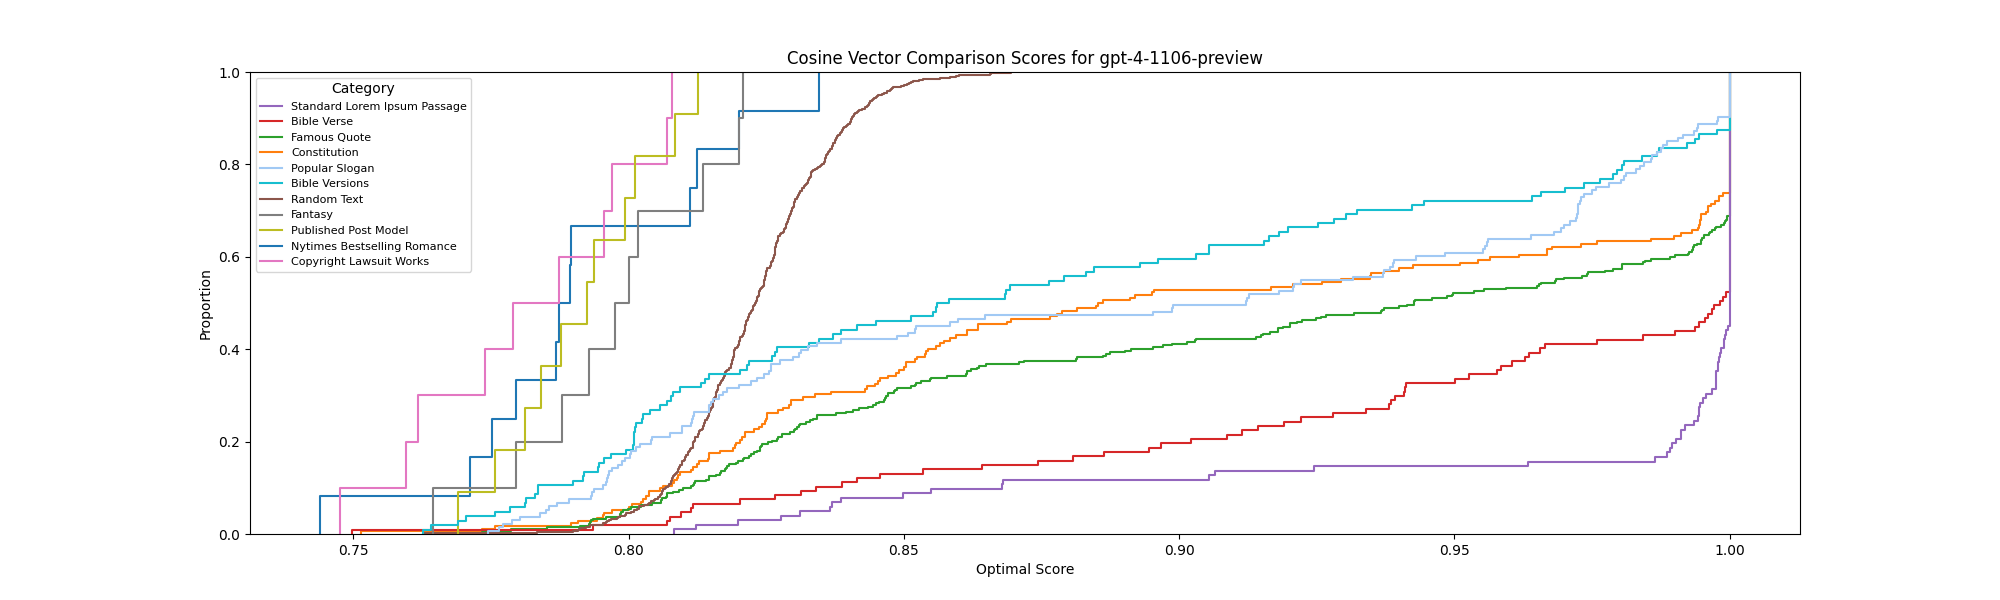
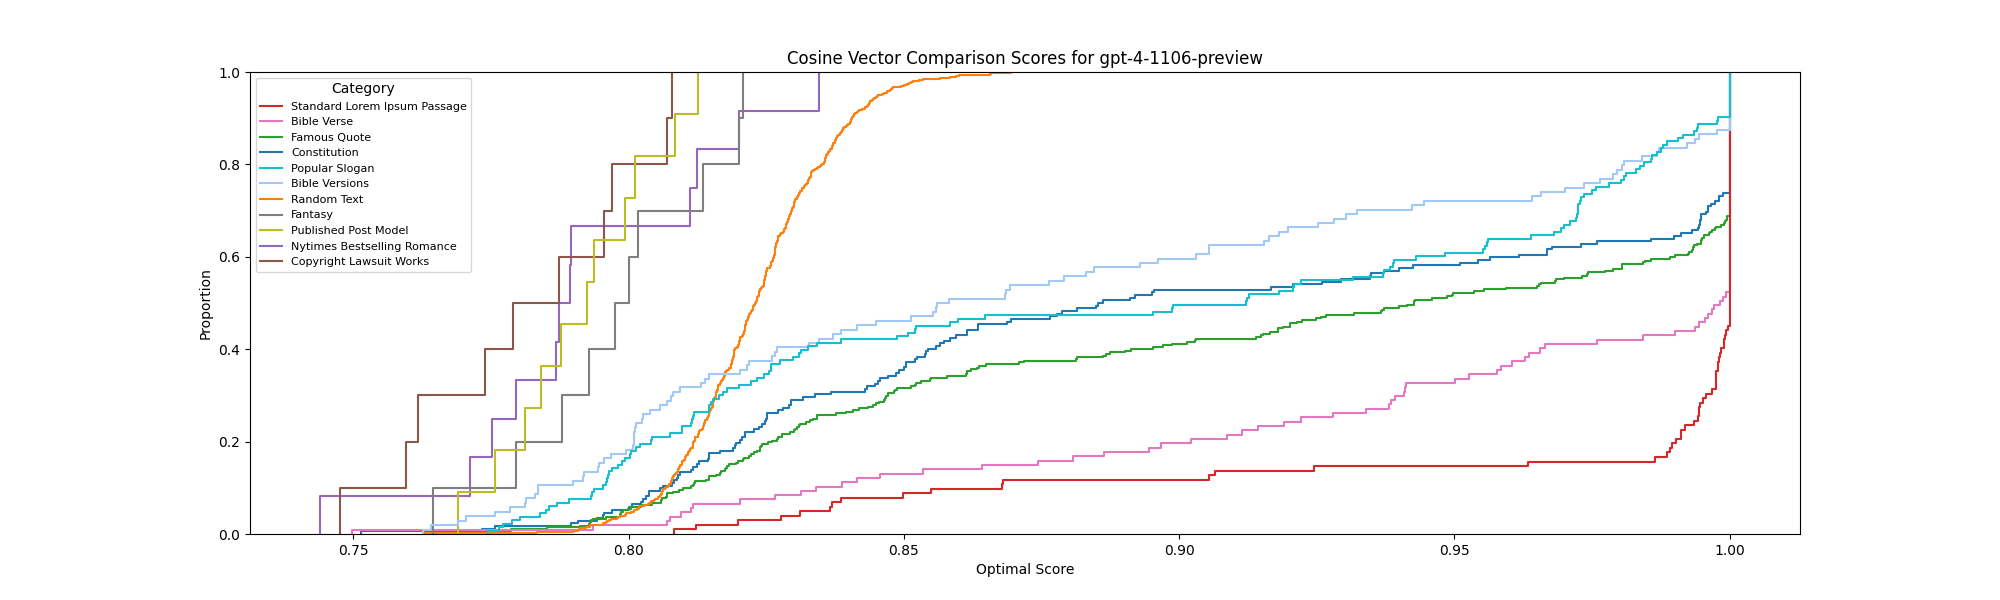
Change graphs to 150 dpi

diff --git a/code/cosine-sentence-length-plot.py b/code/cosine-sentence-length-plot.py
@@ -1,62 +1,91 @@
 import pandas as pd
 import numpy as np
 import matplotlib.pyplot as plt
+import glob
+#gpt 4 preview has to go first so one of its start tokens is chosen, since its the smallest dataframe of valid results
 
-# choose a file
 # choose a row
-
-filename = "/Users/skyler/Desktop/QuoteLLM/results2.0/CSVs/quotes-results.csv"
-df = pd.read_csv(filename)
-file = filename.split("/")[-1]
-genre = file.split("-results.csv")[0]  # "quotes"
-
-title = genre.split("-")
-spaced_title = " ".join(title)
-caps_title = spaced_title.title() # "Quotes"
-#suing-works
-    # row number: 8
-# change row number to graph different quote
-row_num = 199
-tensor_scores = df.iloc[row_num]["cosine_scores"]
-optimal_score = df.iloc[row_num]["optimal_cosine"]
-
-# get optimal score as a float
-score = optimal_score.split("tensor([[")
-score_split = score[1].split("]])")
-score_split = score_split[:len(score_split)-1]
-str_score = score_split[0]
-opt_score = float(str_score)
-print("Opt", opt_score)
-# get list of scores as a float list
-str_scores = tensor_scores.split(" ")
-scores = []
-for score in str_scores:
-    score = score.split("tensor([[")
-    score_split = score[1].split("]])")
-    score_split = score_split[:len(score_split)-1]
-    str_score = score_split[0]
-    score = float(str_score)
-    print(score)
-    scores.append(score)
-
-print(scores)
-print(len(scores))
-print(opt_score)
-x = np.arange(1, len(scores)+1)
-print(x)
-
-
-max_val = max(scores)
-max_index = scores.index(max_val)+1
-
-y = scores
-plt.xlabel("Sentence Length")
+row_num = 5
+# don't go by row num go by start token
+#choose csv
+start_token = 0
+end_token = 0
+model_list = ["gpt-4-1106-preview", "gpt-3.5-turbo", "gpt-4"]
+plt.xlabel("Token Count")
 plt.ylabel("Cosine Score")
+
+for model in model_list:
+    filename = glob.glob(f'/Users/skyler/Desktop/QuoteLLM/all-models-results/CSVs/{model}/famous-quote*')
+    print(filename[0])
+    df = pd.read_csv(filename[0])
+    file = filename[0].split("/")[-1]
+    genre = file.split("-gpt")[0]  # "quotes"
+
+    title = genre.split("-")
+    spaced_title = " ".join(title)
+    caps_title = spaced_title.title() # "Quotes"
+    #suing-works
+        # row number: 8
+    # change row number to graph different quote (based on start token)
+    if model == model_list[0]:
+        start_token = df.iloc[row_num]["start_token"]
+        end_token = df.iloc[row_num]["end_token"]
+        print("Start token:", start_token)
+        print("End token:", end_token)
+
+    #always print this to check
+    print(start_token)
+    print(end_token)
+    row = df.loc[df['start_token'] == start_token]
+    row = row.loc[row['end_token'] == end_token]
+    print()
+    print("Row:")
+    print(row)
+    if row.empty:
+        pass
+    else:
+        tensor_scores = row.iloc[0]["cosine_scores"]
+        print(tensor_scores)
+        optimal_score = row.iloc[0]["optimal_cosine"]
+        print(optimal_score)
+        print("Answer:")
+        print(row.iloc[0]["answer"])
+        print("Pred:")
+        print(row.iloc[0]["pred"])
+        #tensor_scores = df.iloc[row_num]["cosine_scores"]
+        #optimal_score = df.iloc[row_num]["optimal_cosine"]
+
+        # get optimal score as a float
+        score = optimal_score.split("tensor([[")
+        score_split = score[1].split("]])")
+        score_split = score_split[:len(score_split)-1]
+        str_score = score_split[0]
+        opt_score = float(str_score)
+        print("Opt", opt_score)
+        # get list of scores as a float list
+        str_scores = tensor_scores.split(" ")
+        scores = []
+        for score in str_scores:
+            score = score.split("tensor([[")
+            score_split = score[1].split("]])")
+            score_split = score_split[:len(score_split)-1]
+            str_score = score_split[0]
+            score = float(str_score)
+            print(score)
+            scores.append(score)
+
+        #print(scores)
+        #print(len(scores))
+        #print(opt_score)
+        max_val = max(scores)
+        max_index = scores.index(max_val)+1
+
+        x = np.arange(1, len(scores)+1)
+        print(x)
+        plt.plot(x, scores, marker="o", label = f'{model}')
+
 plt.title(f"Cosine Score per Sentence Length for {caps_title}")
-plt.plot(x, y, marker = "o")  # Plot the chart
-# plt.plot(max_index, max_val, color='red', label='Max Value')
-# plt.annotate(f'Max Value: {max_val}', (max_index, max_val), xytext=(max_index + 0.5, max_val + 0.5),
-             #arrowprops=dict(facecolor='black', arrowstyle='->'), fontsize=10)
-plt.savefig(f"/Users/skyler/Desktop/QuoteLLM/results2.0/visualization/cosine_sentence_length_plots/{genre}_cosine_scores_{row_num}.png")
-# 8 is index in dataframe not index in excel -- index in excel is 10
+plt.legend()
+plt.savefig(f"/Users/skyler/Desktop/QuoteLLM/all-models-results/visualization/cosine_sentence_length_plots/{genre}_cosine_scores_{row_num}_{start_token}_{end_token}.png")
+    # 8 is index in dataframe not index in excel -- index in excel is 10
 plt.show()  # display

diff --git a/code/cosine-ecdf-plot-table.py b/code/cosine-ecdf-plot-table.py
@@ -10,6 +10,8 @@ from statsmodels.distributions.empirical_distribution import ECDF
 # sort the legend
 
 model_list = ["gpt-3.5-turbo", "gpt-4-1106-preview", "gpt-4"]
+df_all = pd.DataFrame()
+color_title = {}
 
 for model in model_list:
     # for all lines different colors
@@ -62,14 +64,18 @@ for model in model_list:
             scores.append(opt_score)
 
         # print(scores)
-        # plot the line with each line being a different color
-
+        # make sure no color palettes repeat
         if pos > 9:
             pos = 0
             palette = palettes[palette_pos+1]
-        sns.ecdfplot(scores, label = caps_title, color = palette[pos])
+        # plot the line
         color = palette[pos]
+        if model == model_list[0]:
+            color_title[caps_title] = color
+        print(color_title)
+        sns.ecdfplot(scores, label = caps_title, color = color_title[caps_title])
         pos+=1
+
 
         # plot the line with specific colors for a few lines only
         """
@@ -86,8 +92,9 @@ for model in model_list:
         ecdf = ECDF(scores)
         ecdf_sum = np.sum(ecdf(np.arange(0.0, 1.0, 0.05)))
         table_data.append([caps_title, ecdf_sum])
+        #table_data.append([caps_title, ecdf_sum])
         # legend_data.append([handle, ecdf_sum])
-        legend_data.append([color, ecdf_sum])
+        legend_data.append([color_title[caps_title], ecdf_sum])
 
         #plt.hist()
         #ax.ecdf(scores,  label = caps_title, color = palette[pos])
@@ -124,8 +131,22 @@ for model in model_list:
     plt.savefig(graph_filename)
     plt.show()
 
-    # format the table plot
+
+    # format as latex table
     print(table_data)
+    df = pd.DataFrame(table_data, columns = ['Category', f'{model} scores'])
+    print(df)
+    if model == "gpt-3.5-turbo":
+        df_all['Category'] = df['Category']
+    df_all = df_all.merge(df, on = 'Category', how = 'left')
+    with open(f'/Users/skyler/Desktop/QuoteLLM/all-models-results/visualization/cosine_ecdfs/cosine-ecdf-table-{model}.tex', 'w') as tf:
+        tf.write(df.to_latex(index=False))
+with open(f'/Users/skyler/Desktop/QuoteLLM/all-models-results/visualization/cosine_ecdfs/cosine-ecdf-table.tex', 'w') as tf:
+    tf.write(df_all.to_latex(index=False))
+
+
+    # format the table plot
+    """
     plt.figure(figsize=(8, 8))  # Adjust figure size if needed
     table = plt.table(cellText=sorted_table, loc='center', cellLoc='center', colLabels=['Category', 'Area Under Curve'], edges='closed')
     table.auto_set_font_size(False)
@@ -133,8 +154,9 @@ for model in model_list:
     table.scale(1.5, 1.5)  # Adjust the scale of the table if needed
     plt.axis('off')
     plt.title(f'Table of Areas under Empirical CDF Curves for {model}')
-    plt.savefig(f'/Users/skyler/Desktop/QuoteLLM/all-models-results/visualization/cosine_ecdfs/cosine-ecdf-table-{model}.png')
-    plt.show()
+    #plt.savefig(f'/Users/skyler/Desktop/QuoteLLM/all-models-results/visualization/cosine_ecdfs/cosine-ecdf-table-{model}.png')
+    #plt.show()
+    """
 
     """
     # sort the table_data for trapz area method

diff --git a/code/convert_png.py b/code/convert_png.py
@@ -1,0 +1,29 @@
+from PIL import Image
+import glob
+
+def convert_to_150_dpi(input_path, output_path):
+    # Open the PNG image
+    img = Image.open(input_path)
+
+    # Set the resolution to 150 dpi
+    img = img.convert('RGB')  # Ensure the image is in RGB mode
+    img = img.resize((int(img.width * 150 / img.info['dpi'][0]), int(img.height * 150 / img.info['dpi'][1])), Image.ANTIALIAS)
+    img.info['dpi'] = (150, 150)  # Set the DPI to 150
+
+    # Save the result
+    img.save(output_path, dpi=(150, 150))
+
+
+def main():
+    for image_path in glob.glob('/Users/skyler/Desktop/QuoteLLM/all-models-results/visualization/*/*'):
+        image_name = image_path.split('/')[-1]
+        if (image_name.split('.')[-1] != 'tex'):
+            print(image_name)
+            output_path = '/Users/skyler/Desktop/QuoteLLM/all-models-results/dpi_visualization/' + image_name
+            convert_to_150_dpi(image_path, output_path)
+        else:
+            print()
+            print(image_name)
+
+if __name__=="__main__":
+    main()

diff --git a/all-models-results/visualization/cosine_ecdfs/cosine-ecdf-table.tex b/all-models-results/visualization/cosine_ecdfs/cosine-ecdf-table.tex
@@ -1,0 +1,17 @@
+\begin{tabular}{lrrr}
+\toprule
+Category & gpt-3.5-turbo scores & gpt-4-1106-preview scores & gpt-4 scores \\
+\midrule
+Constitution & 1.040120 & 1.517442 & 0.585757 \\
+Random Text & 3.061374 & 3.014199 & 3.075803 \\
+Famous Quote & 1.686411 & 1.305147 & 1.198606 \\
+Standard Lorem Ipsum Passage & 0.040404 & 0.352941 & 0.015152 \\
+Nytimes Bestselling Romance & 2.993976 & 3.750000 & 2.960941 \\
+Copyright Lawsuit Works & 2.944890 & 3.900000 & 2.894684 \\
+Bible Verse & 0.437500 & 0.682243 & 0.241071 \\
+Fantasy & 2.885328 & 3.500000 & 2.772545 \\
+Published Post Model & 3.016481 & 3.727273 & 3.014917 \\
+Popular Slogan & 2.051852 & 1.699248 & 1.659259 \\
+Bible Versions & 0.843000 & 1.961538 & 0.586172 \\
+\bottomrule
+\end{tabular}

diff --git a/all-models-results/visualization/cosine_ecdfs/cosine-ecdf-table-gpt-4-1106-preview.tex b/all-models-results/visualization/cosine_ecdfs/cosine-ecdf-table-gpt-4-1106-preview.tex
@@ -1,0 +1,17 @@
+\begin{tabular}{lr}
+\toprule
+Category & gpt-4-1106-preview scores \\
+\midrule
+Nytimes Bestselling Romance & 3.750000 \\
+Constitution & 1.517442 \\
+Famous Quote & 1.305147 \\
+Bible Verse & 0.682243 \\
+Standard Lorem Ipsum Passage & 0.352941 \\
+Random Text & 3.014199 \\
+Copyright Lawsuit Works & 3.900000 \\
+Fantasy & 3.500000 \\
+Published Post Model & 3.727273 \\
+Bible Versions & 1.961538 \\
+Popular Slogan & 1.699248 \\
+\bottomrule
+\end{tabular}

diff --git a/all-models-results/visualization/cosine_ecdfs/cosine-ecdf-table-gpt-3.5-turbo.tex b/all-models-results/visualization/cosine_ecdfs/cosine-ecdf-table-gpt-3.5-turbo.tex
@@ -1,0 +1,17 @@
+\begin{tabular}{lr}
+\toprule
+Category & gpt-3.5-turbo scores \\
+\midrule
+Constitution & 1.040120 \\
+Random Text & 3.061374 \\
+Famous Quote & 1.686411 \\
+Standard Lorem Ipsum Passage & 0.040404 \\
+Nytimes Bestselling Romance & 2.993976 \\
+Copyright Lawsuit Works & 2.944890 \\
+Bible Verse & 0.437500 \\
+Fantasy & 2.885328 \\
+Published Post Model & 3.016481 \\
+Popular Slogan & 2.051852 \\
+Bible Versions & 0.843000 \\
+\bottomrule
+\end{tabular}

diff --git a/all-models-results/visualization/cosine_ecdfs/cosine-ecdf-table-gpt-4.tex b/all-models-results/visualization/cosine_ecdfs/cosine-ecdf-table-gpt-4.tex
@@ -1,0 +1,17 @@
+\begin{tabular}{lr}
+\toprule
+Category & gpt-4 scores \\
+\midrule
+Bible Verse & 0.241071 \\
+Constitution & 0.585757 \\
+Popular Slogan & 1.659259 \\
+Bible Versions & 0.586172 \\
+Fantasy & 2.772545 \\
+Random Text & 3.075803 \\
+Standard Lorem Ipsum Passage & 0.015152 \\
+Copyright Lawsuit Works & 2.894684 \\
+Nytimes Bestselling Romance & 2.960941 \\
+Published Post Model & 3.014917 \\
+Famous Quote & 1.198606 \\
+\bottomrule
+\end{tabular}
